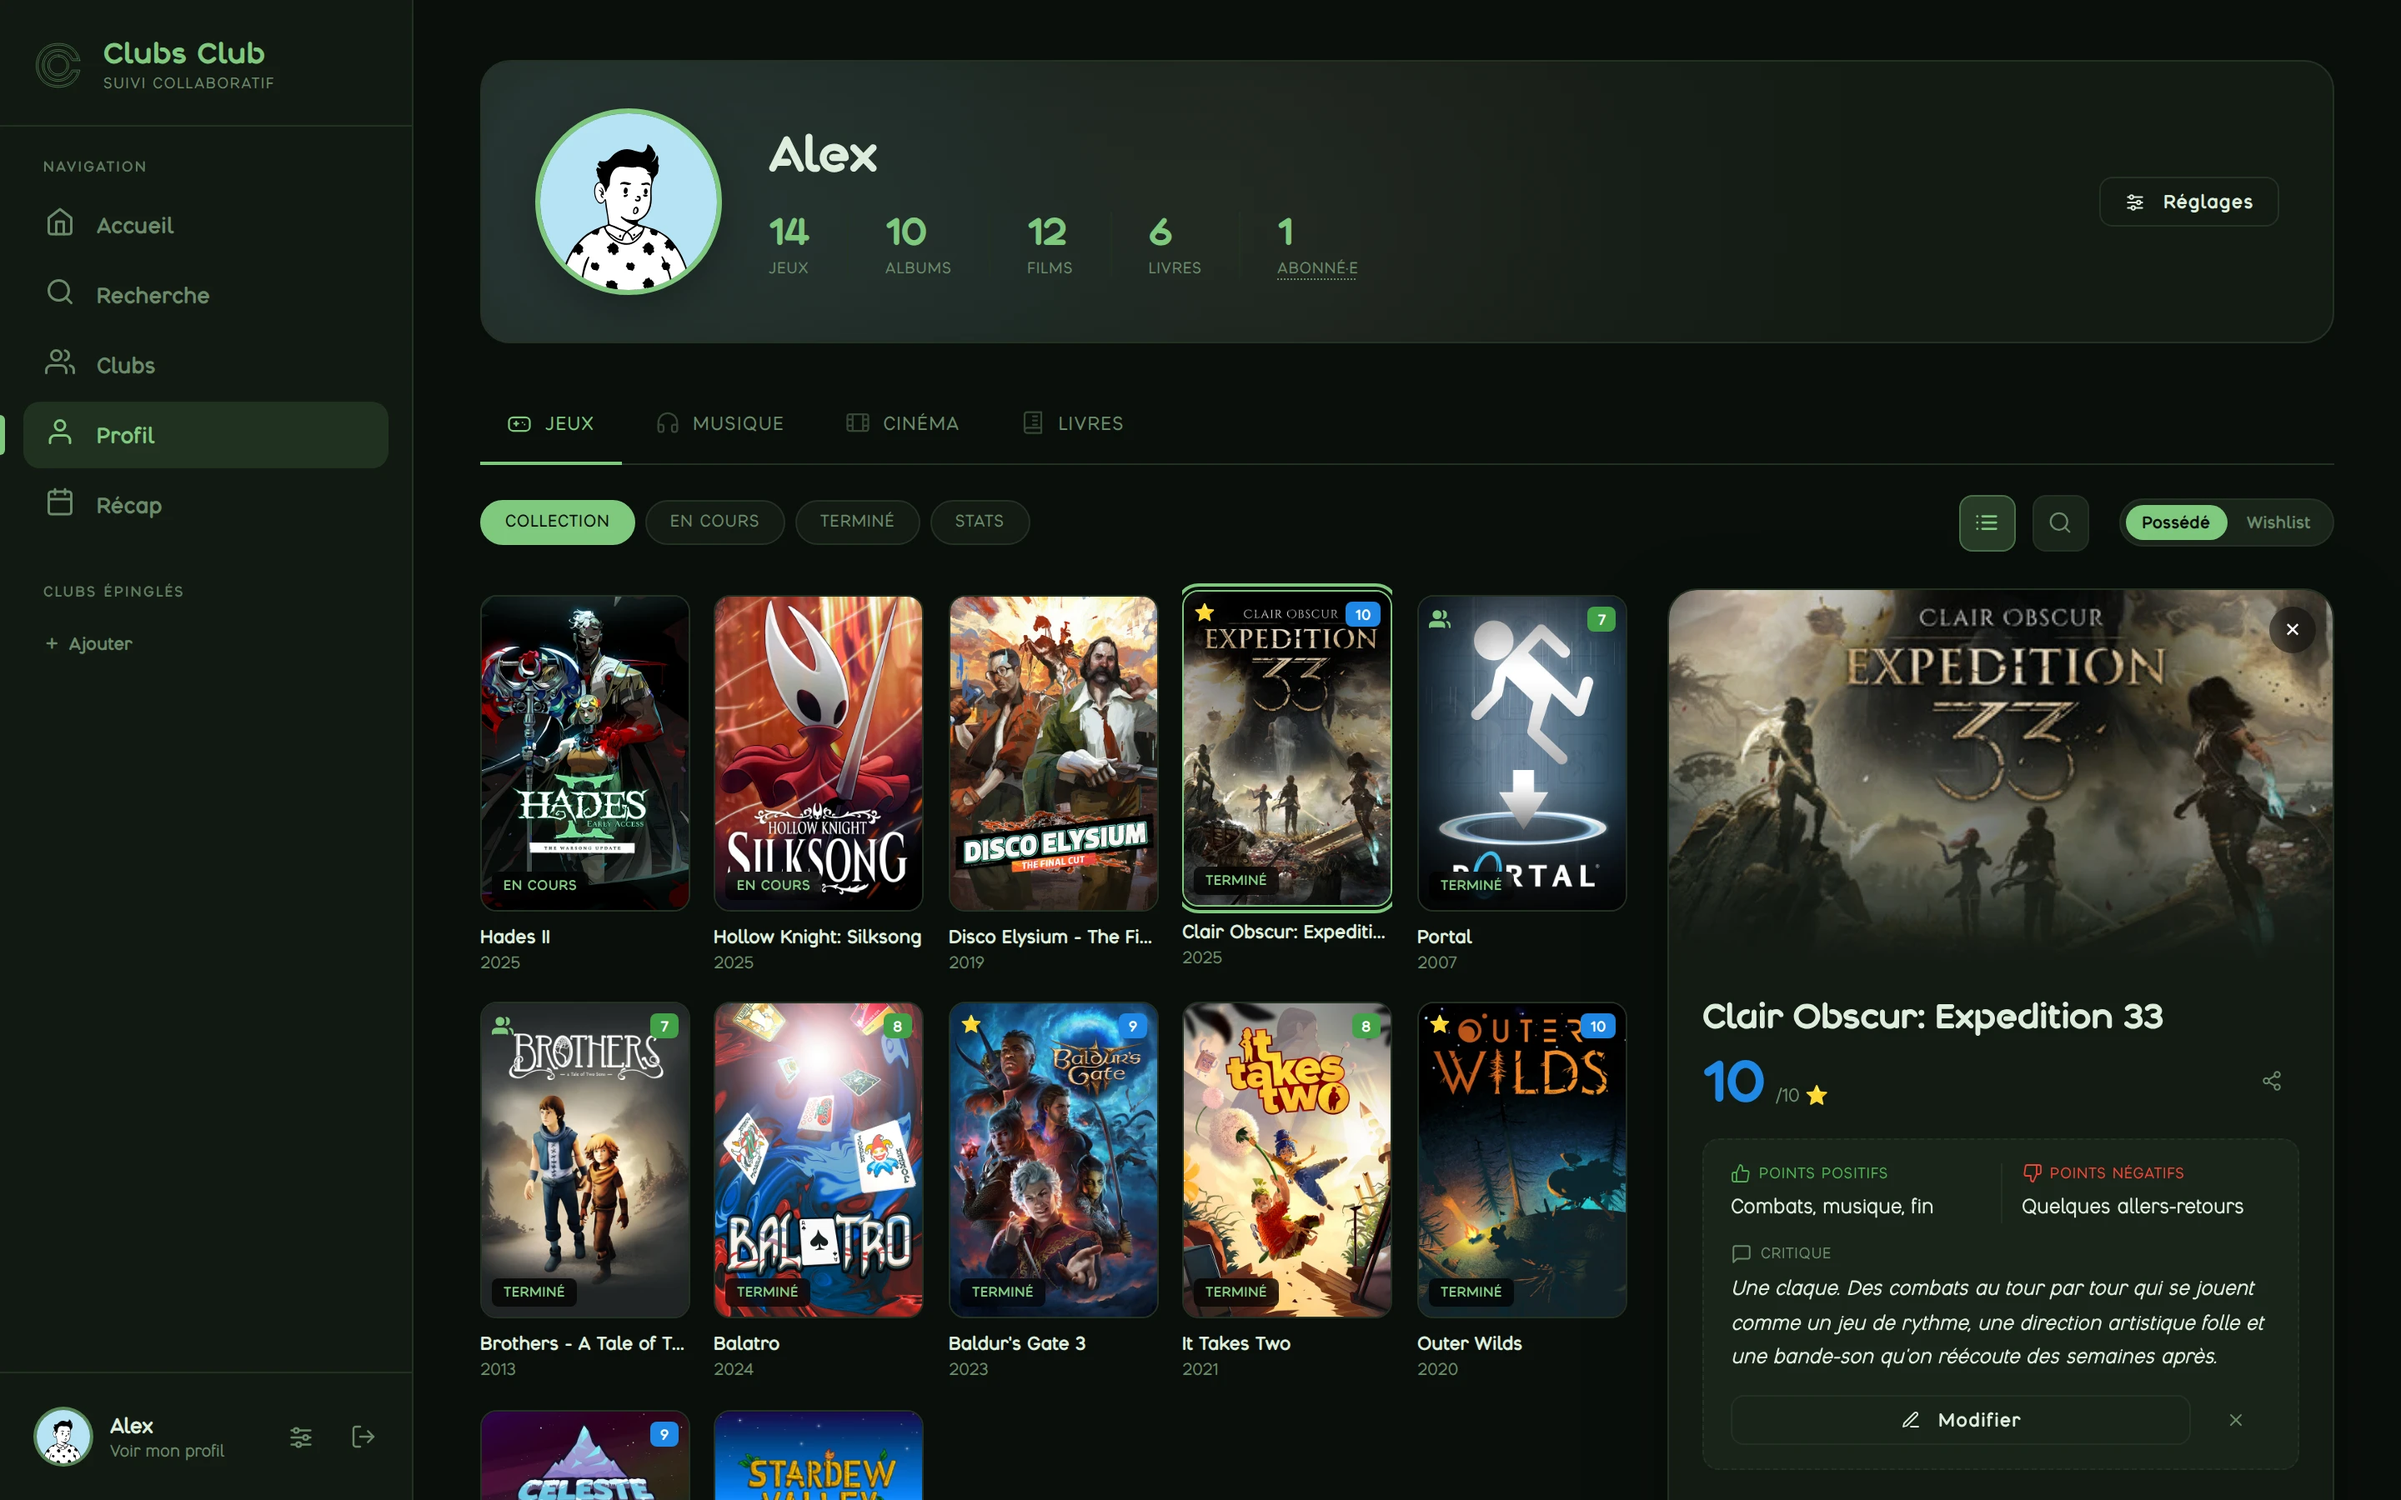
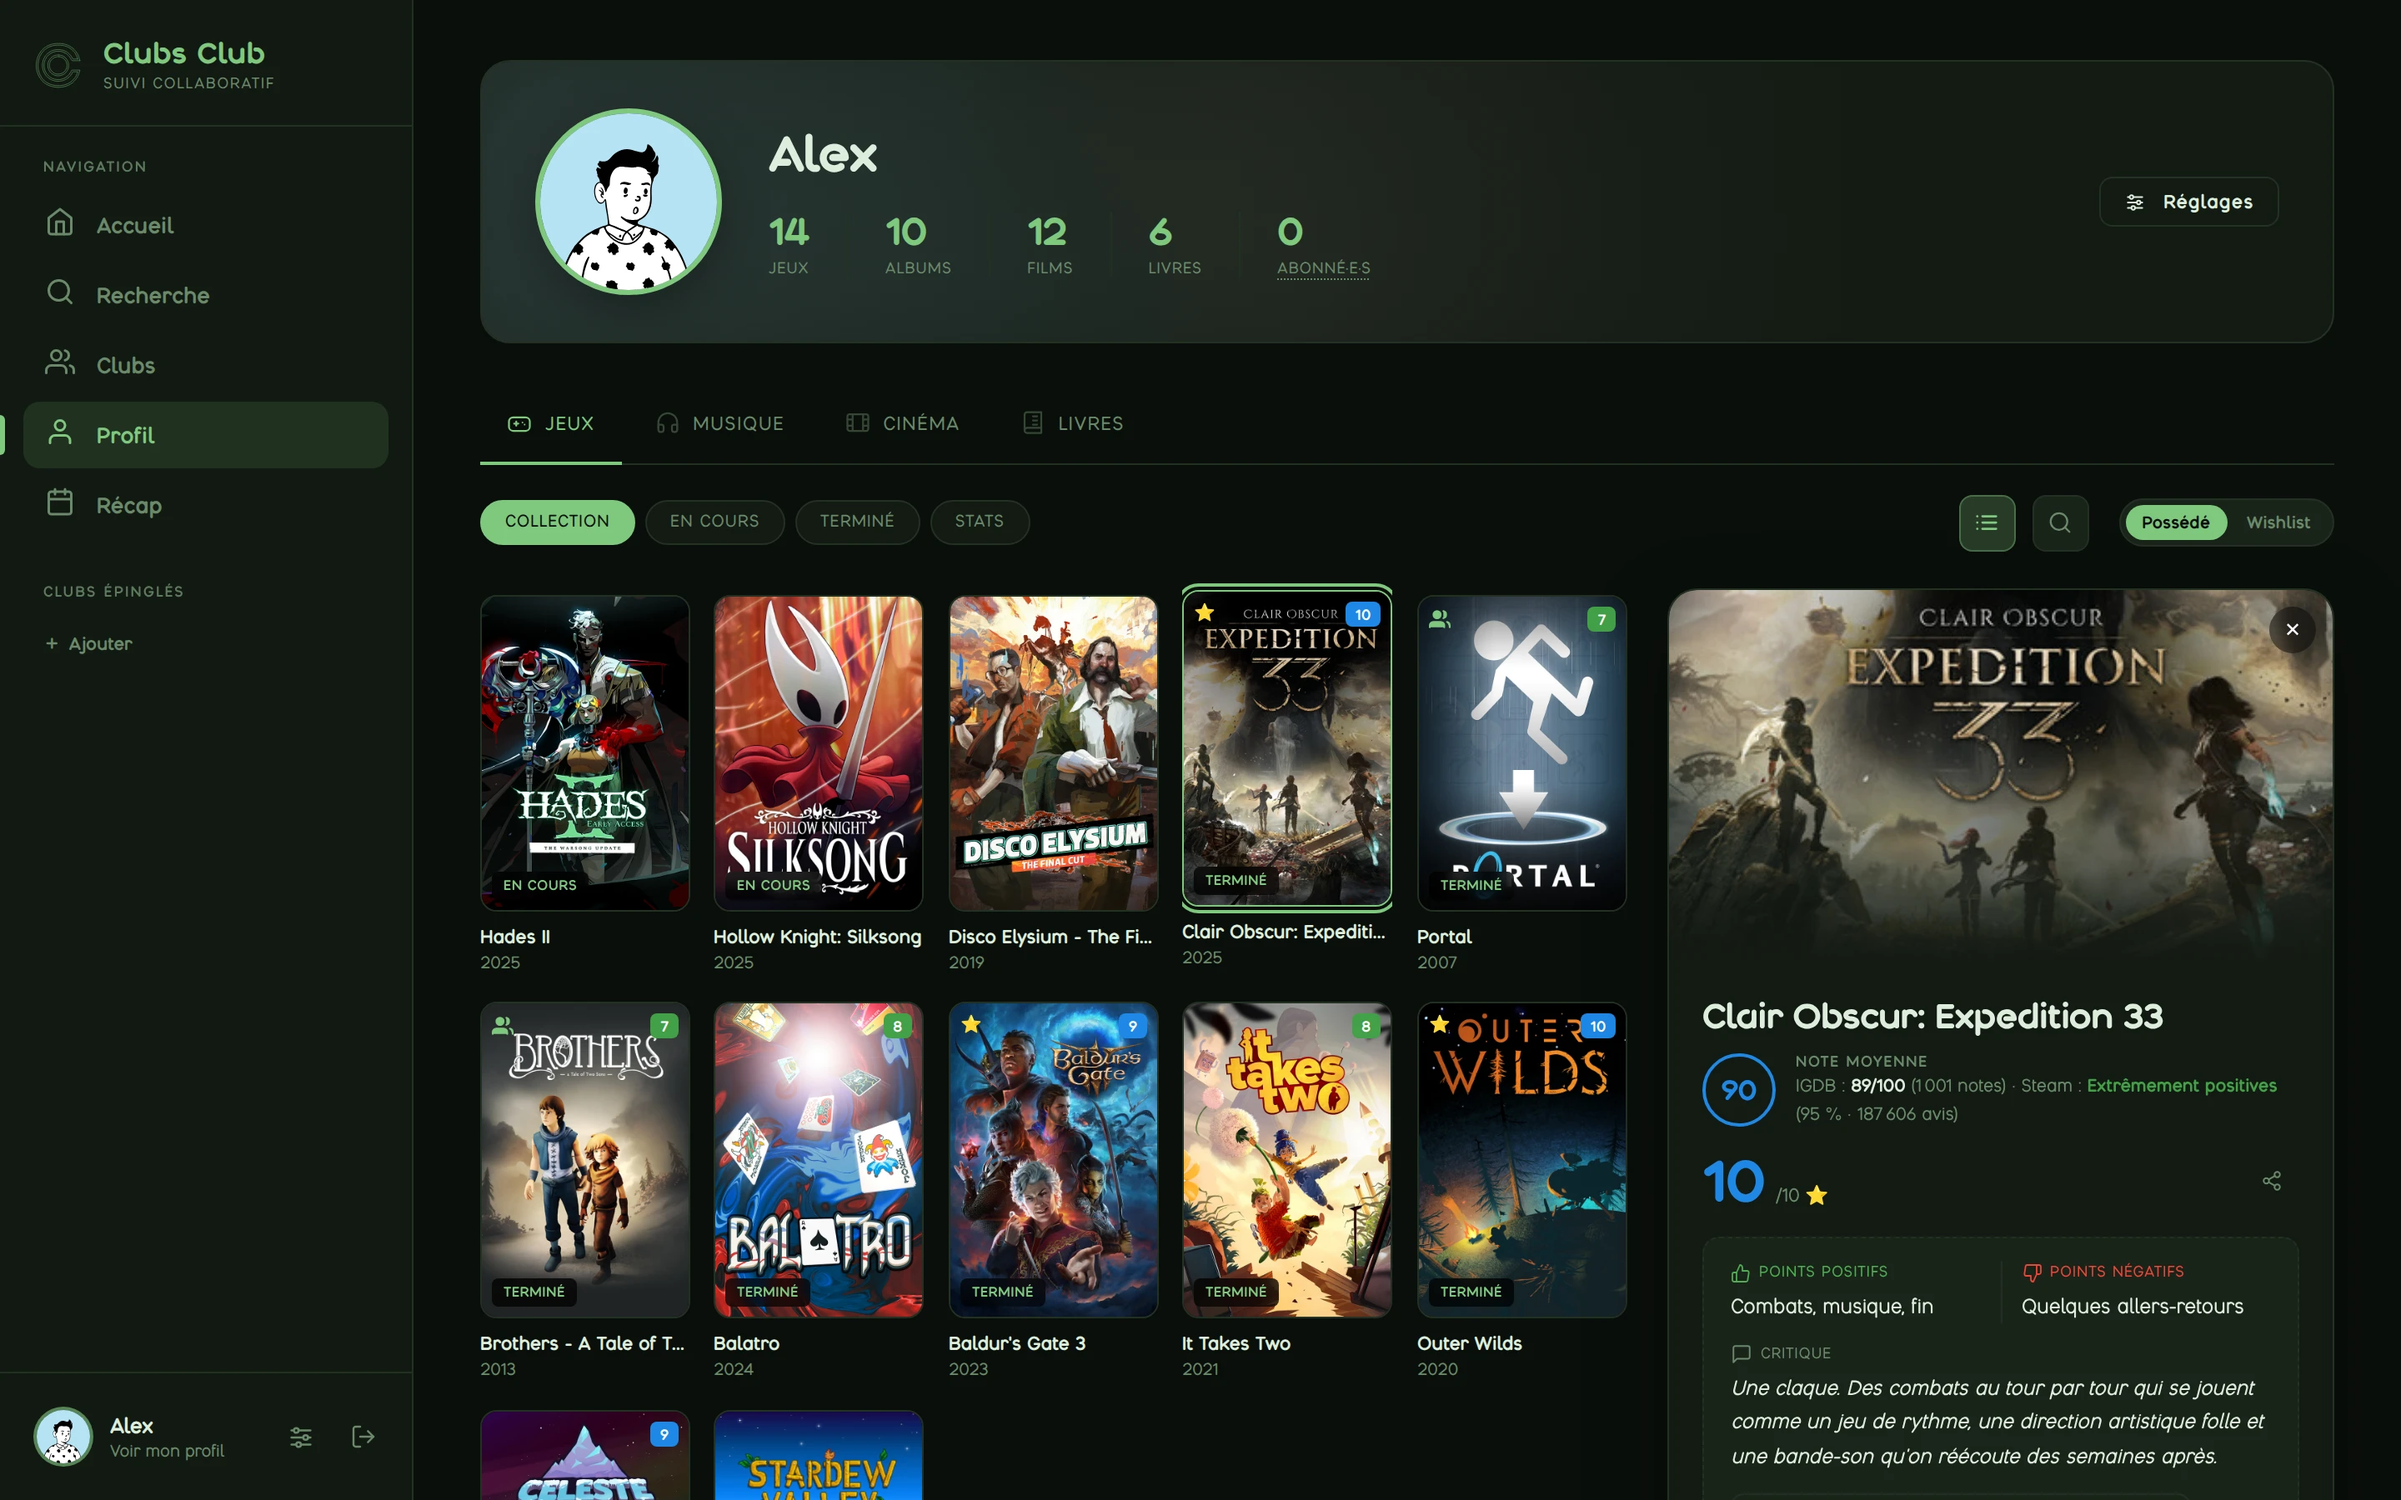
Fiches de jeu : la note du public (IGDB et Steam)
Captures de la fiche refaites (ordinateur et téléphone) et texte complété.

diff --git a/README.md b/README.md
@@ -41,9 +41,9 @@ Clubs Club réunit tout. Chaque œuvre a sa fiche, son statut, votre note et vot
       Jeux vidéo, musique, cinéma et séries, livres : la même logique partout. Ce que vous voulez découvrir, ce qui est en cours, ce que vous avez terminé — d'un coup d'œil, avec vos notes sur chaque jaquette.
     </td>
     <td width="50%" valign="top">
-      <img src="images/fiche.webp" alt="La fiche d'un jeu avec sa note, ses points positifs et négatifs et sa critique">
+      <img src="images/fiche.webp" alt="La fiche d'un jeu avec la note du public, votre note, vos points positifs et négatifs et votre critique">
       <h3>Vos critiques, à votre façon</h3>
-      Une note sur 10, les points forts, les points faibles, quelques lignes si le cœur vous en dit. Un coup de cœur d'un geste. Et une critique prête à être envoyée à quelqu'un.
+      Une note sur 10, les points forts, les points faibles, quelques lignes si le cœur vous en dit. Un coup de cœur d'un geste. Et pour chaque jeu, la note du public, IGDB et Steam réunis.
     </td>
   </tr>
   <tr>
